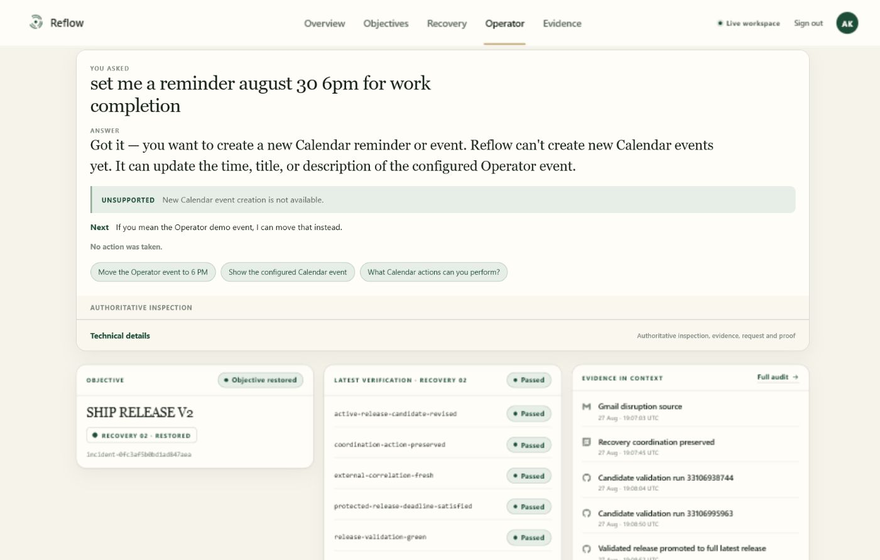
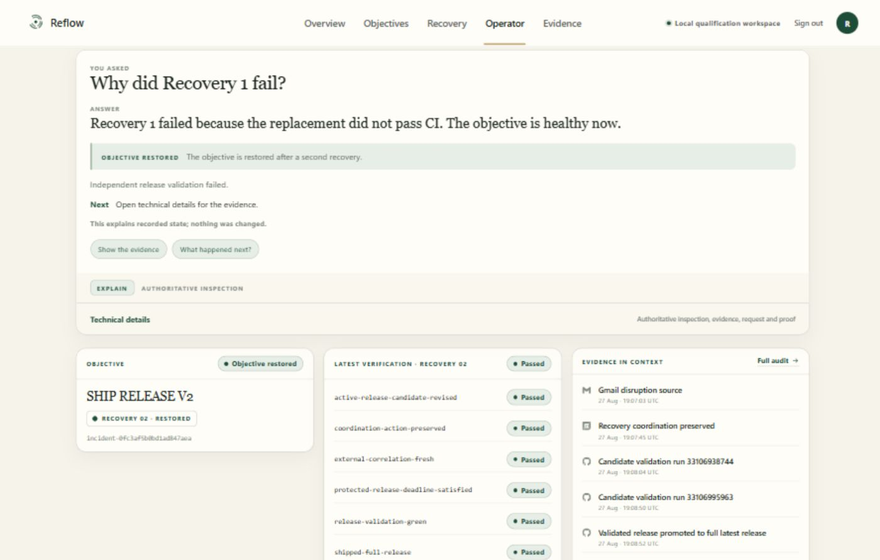
docs: truth-sync the README, and typeset the canonical walkthrough
Four claims had gone stale against main and one screenshot had become
misleading.

Calendar event creation is live qualified — one real create, an independent
read-back, observed matching expected, and a same-key replay that produced no
second insert. The capabilities matrix, the limitations and the claim table now
say so, and the limitation that replaces the old one is the honest one: creation
is recorded through the Operator action ledger, not through the autonomous
loop's own action claims and receipts.

The Operator tile in the product grid was a screenshot of Reflow refusing to
create a Calendar event. That refusal is exactly what stopped being true, so
keeping it because it looked good would have been the wrong trade. It is
replaced by the answer to "Why did Recovery 1 fail?", and the caption now says
plainly that three tiles are the live workspace and one is the qualification
workspace against the same incident.

Test counts were re-measured rather than pasted: 549 backend passing, 167
frontend across 20 files, coverage 95.35%, mypy clean on 56 files, ruff clean.
The stale frozen-baseline guard still diverges on exactly one design-token line
and is still reported rather than deselected.

Voice no longer claims "real barge-in" as proof. The interruption signal is
genuinely wired to the audio player and covered at unit level, but no recording
of an interruption during a real authenticated call is preserved, so it is
[…]

diff --git a/README.md b/README.md
@@ -13,8 +13,8 @@ Reflow is a closed loop, not an assistant. It watches the systems an objective d
 ![Cloud Run](https://img.shields.io/badge/Cloud_Run-1D4C39?style=flat-square&logo=googlecloud&logoColor=white)
 ![Firestore](https://img.shields.io/badge/Firestore-1D4C39?style=flat-square&logo=firebase&logoColor=white)
 ![Firebase](https://img.shields.io/badge/Firebase_Hosting_+_Auth-1D4C39?style=flat-square&logo=firebase&logoColor=white)
-![Backend tests](https://img.shields.io/badge/backend-544_passing-91A995?style=flat-square)
-![Frontend tests](https://img.shields.io/badge/frontend-161_passing-91A995?style=flat-square)
+![Backend tests](https://img.shields.io/badge/backend-549_passing-91A995?style=flat-square)
+![Frontend tests](https://img.shields.io/badge/frontend-167_passing-91A995?style=flat-square)
 ![Coverage](https://img.shields.io/badge/coverage-95.35%25-91A995?style=flat-square)
 
 **[Live product → reflow-objective-recovery.web.app](https://reflow-objective-recovery.web.app)**
@@ -25,7 +25,7 @@ Reflow is a closed loop, not an assistant. It watches the systems an objective d
 
 </div>
 
-| Deployment | Human steps in the canonical run | Email to restored objective | External proof |
+| Deployment | Human interventions after the trigger | Email to restored objective | External proof |
 |---|---:|---:|---:|
 | [Live on Firebase + Cloud Run](https://reflow-objective-recovery.web.app) | **zero** | **~111 seconds** | **independent read-back** |
 
@@ -136,16 +136,16 @@ Only then did all six invariants pass and the objective resolve.
 
 ## <img src="docs/assets/marks/product.svg" height="22" align="center" alt="" /> &nbsp;The product
 
-Four surfaces onto a loop that already ran. Each answers a different question, and all are captured from the live workspace.
+Four surfaces onto a loop that already ran. Each answers a different question.
 
 | | |
 |---|---|
 | <img src="docs/assets/surface-overview.png" alt="Overview: the current priority objective, its protected deadline, restoration margin, and an independently read-back Calendar commitment" width="100%" /> | <img src="docs/assets/surface-recovery.png" alt="Recovery Room: the receipt ladder for a recovery attempt" width="100%" /> |
 | **Overview** — what is at risk right now, how much margin is left against the protected deadline, and what Reflow did while you were away. | **Recovery Room** — the attempt, step by step, with the receipt ladder underneath each action. |
-| <img src="docs/assets/surface-operator.png" alt="Operator: Reflow answering that it cannot create new Calendar events, marked unsupported, with no action taken" width="100%" /> | <img src="docs/assets/surface-evidence.png" alt="Evidence: an external read-back record with evidence id, external reference, observed timestamp and confirmed status" width="100%" /> |
-| **Operator** — ask in plain language. This one is a **refusal**: Reflow says it cannot create Calendar events and that no action was taken. | **Evidence** — every action, receipt, verification and decision, with the external reference you can check yourself. |
+| <img src="docs/assets/surface-operator.png" alt="Operator: the plain-language answer to why Recovery 1 failed, with the objective marked restored and the technical provenance collapsed beneath it" width="100%" /> | <img src="docs/assets/surface-evidence.png" alt="Evidence: an external read-back record with evidence id, external reference, observed timestamp and confirmed status" width="100%" /> |
+| **Operator** — ask in plain language. *Why did Recovery 1 fail?* returns the human answer first, states that nothing was changed, and keeps the provenance one disclosure away. | **Evidence** — every action, receipt, verification and decision, with the external reference you can check yourself. |
 
-The Operator tile is deliberate. A system that only shows its successes has not shown you its authority model.
+Three of these are the live workspace; the Operator tile is from the qualification workspace against the same canonical incident.
 
 ---
 
@@ -265,97 +265,118 @@ A deeper component-level view is in [`docs/architecture.md`](docs/architecture.m
 
 ---
 
-## <img src="docs/assets/marks/pipeline.svg" height="22" align="center" alt="" /> &nbsp;How it works
+## <img src="docs/assets/marks/pipeline.svg" height="22" align="center" alt="" /> &nbsp;How the canonical recovery actually ran
 
-This is the canonical recovery, with the real values it actually produced and the file that owns each stage. Everything below happened without a person.
+Not an illustration — the real run, in order, with the values it produced. Every step below happened without a person.
 
 ```text
-                    "Backend lead is unavailable this week."
-                   a real email, arriving at a watched mailbox
-                                        │
-                                        ▼
-    ┌──────────────────────────────────────────────────────────────────────┐
-    │  1 · INGEST                                      gmail_ingestion.py  │
-    │  Gmail watch → Pub/Sub push → the private backend                    │
-    │  history cursor advances · the event is claimed transactionally,     │
-    │  so a redelivery of the same message can never run twice             │
-    └───────────────────────────────────┬──────────────────────────────────┘
-                                        ▼
-    ┌──────────────────────────────────────────────────────────────────────┐
-    │  2 · INTERPRET                              gmail_interpretation.py  │
-    │  agent 1 → REAL_DISRUPTION, type personnel_unavailability,           │
-    │  grounded in verbatim excerpts from the mail body                    │
-    │  agent 2 → candidate nodes: person-backend-lead,                     │
-    │  work-api-migration, release-v2 — from a known-node catalogue        │
-    └───────────────────────────────────┬──────────────────────────────────┘
-                                        ▼
-    ┌──────────────────────────────────────────────────────────────────────┐
-    │  3 · MAP THE BLAST RADIUS                           domain/graph.py  │
-    │  reverse traversal over the operational graph — deterministic,       │
-    │  and final; the model may propose nodes but never traverse           │
-    │  threatened objective: SHIP RELEASE V2, deadline Fri 17:00 UTC       │
-    └───────────────────────────────────┬──────────────────────────────────┘
-                                        ▼
-    ┌──────────────────────────────────────────────────────────────────────┐
-    │  4 · PLAN, THEN ATTACK THE PLANS                        planning.py  │
-    │  agent 3 → three materially different recoveries, one each for       │
-    │  deadline-first, risk-minimisation-first, resource-balance-first     │
-    │  agent 4 → one critique per plan: contradictions, overload,          │
-    │  single points of failure, missing evidence. It cannot approve.      │
-    └───────────────────────────────────┬──────────────────────────────────┘
-                                        ▼
-    ┌──────────────────────────────────────────────────────────────────────┐
-    │  5 · AUTHORISE, THEN SELECT         domain/policy.py · selection.py  │
-    │  hard policy: workload ceiling, skills, protected commitments,       │
-    │  blocking unknowns · invalid plans are rejected with reasons         │
-    │  one stable pick — the same evidence always selects the same plan    │
-    └───────────────────────────────────┬──────────────────────────────────┘
-                                        │
-                    ┌───────────────────┴─────────────────┐
-                    ▼                                     ▼
-   ┌────────────────────────────────┐    ┌────────────────────────────────┐
-   │  CALENDAR ADAPTER              │    │  GITHUB GATEWAY                │
-   │  reschedule the release        │    │  create the Candidate A        │
-   │  coordination block            │    │  validation release            │
-   │  idempotency key first         │    │  then wait for real CI         │
-   └────────────────────────────────┘    └────────────────────────────────┘
-                    │                                     │
-                    └───────────────────┬─────────────────┘
-                                        ▼
-    ┌──────────────────────────────────────────────────────────────────────┐
-    │  6 · READ EACH EFFECT BACK                        the same adapters  │
-    │  a second, separate request to each provider                         │
-    │  expected compared with observed · a write that returns 200 is       │
-    │  a receipt, never proof. Disagreement ⇒ VERIFICATION_FAILED          │
-    └───────────────────────────────────┬──────────────────────────────────┘
-                                        ▼
-    ┌──────────────────────────────────────────────────────────────────────┐
-    │  7 · VERIFY THE OBJECTIVE                    domain/verification.py  │
-    │  six invariants over recorded state — the only route to resolved     │
-    │  Recovery 01: Calendar VERIFIED, but release-validation-green        │
-    │  was false because Candidate A failed CI                             │
-    └───────────────────────────────────┬──────────────────────────────────┘
-                                        │
-                    ┌───────────────────┴─────────────────┐
-              invariants fail                            hold
-                    ▼                                     ▼
-   ┌────────────────────────────────┐    ┌────────────────────────────────┐
-   │  8 · REOPEN AND REPLAN         │    │  RESOLVED                      │
-   │  p1d.py · agent 5              │    │  objective_restored            │
-   │  the failed effect is          │    │  revision 16, six of six       │
-   │  fingerprinted so the          │    │  invariants, 21h 51m           │
-   │  next plan cannot              │    │  before the protected          │
-   │  repeat it                     │    │  deadline                      │
-   └────────────────────────────────┘    └────────────────────────────────┘
-                    │
-                    └─ Candidate B ─▶ back to stage 4, and it holds
+                   "Backend lead is unavailable this week."
+                  a real email, arriving at a watched mailbox
+                                       │
+                                       ▼
+     ┌──────────────────────────────────────────────────────────────────┐
+     │  1 · INGEST                                                      │
+     │  Gmail watch → Pub/Sub push → the private backend                │
+     │  already-claimed redeliveries exit without repeating the stage   │
+     └──────────────────────────────────────────────────────────────────┘
+                                       │
+                                       │  Pub/Sub handoff
+                                       ▼
+     ┌──────────────────────────────────────────────────────────────────┐
+     │  2 · INTERPRET                                                   │
+     │  agent 1 → REAL_DISRUPTION · personnel_unavailability            │
+     │  agent 2 → person-backend-lead, work-api-migration, release-v2   │
+     └──────────────────────────────────────────────────────────────────┘
+                                       │
+                                       ▼
+     ┌──────────────────────────────────────────────────────────────────┐
+     │  3 · MAP THE BLAST RADIUS                                        │
+     │  deterministic reverse traversal over the operational graph      │
+     │  threatened objective: SHIP RELEASE V2, Friday 17:00 UTC         │
+     └──────────────────────────────────────────────────────────────────┘
+                                       │
+                                       ▼
+     ┌──────────────────────────────────────────────────────────────────┐
+     │  4 · PLAN, THEN ATTACK THE PLANS                                 │
+     │  agent 3 → three materially different recovery candidates        │
+     │  agent 4 → one critique each; it cannot approve or reject        │
+     └──────────────────────────────────────────────────────────────────┘
+                                       │
+                                       ▼
+     ┌──────────────────────────────────────────────────────────────────┐
+     │  5 · AUTHORISE AND SELECT                                        │
+     │  hard policy rejects invalid candidates, with reasons            │
+     │  stable selection — the same evidence picks the same plan        │
+     └──────────────────────────────────────────────────────────────────┘
+
+                      ──────────  RECOVERY 01  ──────────
+
+     ┌──────────────────────────────────────────────────────────────────┐
+     │  6 · ACT ON GOOGLE CALENDAR                                      │
+     │  reschedule the release coordination block                       │
+     │  the idempotency key is claimed before the write                 │
+     └──────────────────────────────────────────────────────────────────┘
+                                       │
+                                       ▼
+     ┌──────────────────────────────────────────────────────────────────┐
+     │  7 · READ THE CALENDAR BACK                                      │
+     │  a separate request · observed state matched expected            │
+     │  receipt VERIFIED — acknowledgement alone is not proof           │
+     └──────────────────────────────────────────────────────────────────┘
+                                       │
+                                       │  Pub/Sub handoff
+                                       ▼
+     ┌──────────────────────────────────────────────────────────────────┐
+     │  8 · VALIDATE CANDIDATE A ON GITHUB                              │
+     │  the release is created, then the real CI result is awaited      │
+     │  the required check failed                                       │
+     └──────────────────────────────────────────────────────────────────┘
+                                       │
+                                       ▼
+     ┌──────────────────────────────────────────────────────────────────┐
+     │  9 · VERIFY THE OBJECTIVE                                        │
+     │  six invariants evaluated over recorded state                    │
+     │  release-validation-green false — the objective did not recover  │
+     └──────────────────────────────────────────────────────────────────┘
+                                       │
+                                       │  invariants fail
+                                       ▼
+
+                      ──────────  RECOVERY 02  ──────────
+
+     ┌──────────────────────────────────────────────────────────────────┐
+     │  10 · REOPEN AND REPLAN                                          │
+     │  the incident reopens itself · agent 5 says what must change     │
+     │  the failed effect is fingerprinted and excluded from replanning │
+     └──────────────────────────────────────────────────────────────────┘
+                                       │
+                                       ▼
+     ┌──────────────────────────────────────────────────────────────────┐
+     │  11 · VALIDATE CANDIDATE B                                       │
+     │  a different candidate, CI green, the release promoted           │
+     │  an independent GitHub read confirms the latest release          │
+     └──────────────────────────────────────────────────────────────────┘
+                                       │
+                                       ▼
+     ┌──────────────────────────────────────────────────────────────────┐
+     │  12 · VERIFY AGAIN                                               │
+     │  six of six invariants hold                                      │
+     └──────────────────────────────────────────────────────────────────┘
+                                       │
+                                       ▼
+     ╔══════════════════════════════════════════════════════════════════╗
+     ║  OBJECTIVE RESTORED                                              ║
+     ║  objective_restored · revision 16 · 21h 51m before the deadline  ║
+     ╚══════════════════════════════════════════════════════════════════╝
 ```
 
-**Four durable stages, not one long request.** Stages 1, 2–5, the GitHub validation, and the verify-or-reopen step are separate Pub/Sub-delivered units of work. Each finishes, writes durable state, and publishes a handoff the next one consumes on its own. A worker can die anywhere in that chain and the work resumes rather than restarting.
+**Inspect the implementation:** [`gmail_ingestion.py`](objective_recovery_agent/gmail_ingestion.py) · [`gmail_interpretation.py`](objective_recovery_agent/gmail_interpretation.py) · [`domain/graph.py`](src/objective_recovery/domain/graph.py) · [`planning.py`](objective_recovery_agent/planning.py) · [`domain/policy.py`](src/objective_recovery/domain/policy.py) · [`application/selection.py`](src/objective_recovery/application/selection.py) · [`calendar_operator_adapter.py`](objective_recovery_agent/calendar_operator_adapter.py) · [`github_gateway.py`](objective_recovery_agent/github_gateway.py) · [`domain/verification.py`](src/objective_recovery/domain/verification.py) · [`p1d.py`](objective_recovery_agent/p1d.py)
 
-**Replay is safe by construction.** A redelivered message re-enters its stage and stops, because event claims are transactional. A retried action returns the existing durable action, because the idempotency key is claimed before the write — verified live during the Slack qualification, where a repeated request returned the same action and the same timestamps without reaching the provider.
+**Four durable stages, not one long request.** The Pub/Sub handoffs marked above are real boundaries: each stage finishes its work, writes durable state, and publishes for the next one to consume. A worker can die anywhere in that chain and the work resumes rather than restarting.
 
-**The interesting stage is 8.** `p1d.py` describes itself as *autonomous reopen, replan, second recovery, shipping, and closure*. When invariants fail, the failed effect is recorded as a fingerprint and hard-rejected from the next plan, so the engine cannot replan into the dead end it just came out of. Candidate B was produced that way.
+**Replay is safe by construction.** An already-claimed redelivery exits without repeating its stage, because event claims are transactional. A retried action returns the existing durable action, because the idempotency key is claimed before the write — verified live during the Slack qualification, where a repeated request returned the same action and the same timestamps without reaching the provider.
+
+**Stage 10 is the one to look at.** `p1d.py` describes itself as *autonomous reopen, replan, second recovery, shipping, and closure*. The failed effect is recorded as a fingerprint and hard-rejected from the next plan, so the engine cannot replan into the dead end it just came out of. Candidate B was produced that way.
 
 ---
 
@@ -365,7 +386,7 @@ The engine does not need any of this to work. Operator is how a person looks int
 
 **Type.** The Operator composer takes a question or a request. Agent 6 classifies it into a typed intent; deterministic policy decides whether anything may execute.
 
-**Say.** A live bidirectional voice call on Gemini Live, with real barge-in. Credentials are minted short-lived, model-locked and audience-bound in [`voice_sessions.py`](objective_recovery_agent/voice_sessions.py); the browser never receives a durable key. Dictation is separate and composes into the same field — it never submits on its own.
+**Say.** A live bidirectional voice conversation on Gemini Live. The Live API's interruption signal is wired to the audio player, so speaking over Reflow stops its playback and commits the turn. Credentials are minted short-lived, model-locked and audience-bound in [`voice_sessions.py`](objective_recovery_agent/voice_sessions.py); the browser never receives a durable key. Dictation is separate and composes into the same field — it never submits on its own.
 
 **Show.** Upload, drag, or paste a screenshot. `POST /api/v1/operator/image` validates signature, declared type, decoder agreement, frame count and dimensions before Agent 8 sees anything. The answer separates what was **observed** from what was **inferred** from what is **not visible**.
 
@@ -401,7 +422,7 @@ Derived from the adapters and policy in source, and from the recorded live proof
 | System | Capability | Status |
 |---|---|---|
 | **Google Calendar** | Reschedule, update title, update description on the configured event | **Live qualified** — real write, independent `GET`, verified |
-| **Google Calendar** | Create an event on the configured operator calendar | **Implemented and tested** — no live qualification record yet |
+| **Google Calendar** | Create an event on the configured operator calendar | **Live qualified** — one real create, independent read-back, `expected == observed`, replay produced no second insert |
 | **Jira** | Transition an issue | **Live qualified** — real transition, separate `GET` confirmed |
 | **Jira** | Set priority, assign, set due date, add comment | **Implemented and tested** — comment creation failed its live attempt and is not claimed |
 | **Slack** | Post a message to the configured channel | **Live qualified** — one authorized message, read back, replay-safe |
@@ -491,7 +512,7 @@ Reflow/
 │   ├── vision/                      Show Reflow: plate, client, visual answer
 │   ├── voice/                       live call, dictation, global dock
 │   └── recovery/                    Recovery Room, spine, receipt ladder
-├── tests/                           544 backend tests
+├── tests/                           549 backend tests
 ├── deployment/terraform/            single-project infrastructure
 └── docs/                            proofs, contracts and architecture
 ```
@@ -526,11 +547,11 @@ npm run build
 
 | Gate | Result |
 |---|---|
-| Backend tests | **544 passing**, 1 skipped, 1 known-stale guard described below |
+| Backend tests | **549 passing**, 1 skipped, 1 known-stale guard described below |
 | Coverage | **95.35%**, gate 95% |
 | `mypy` strict | **Clean**, 56 source files |
 | `ruff check` | **Clean** on `src`, `tests`, `objective_recovery_agent` |
-| Frontend tests | **161 passing** across 19 files |
+| Frontend tests | **167 passing** across 20 files |
 | Frontend typecheck, lint, format, build | **Clean** |
 
 **The one failure, stated plainly.**
@@ -549,9 +570,9 @@ This guard pins thirteen paths against commit `6b9b6f1`. Twelve are byte-identic
 - **Visual evidence is not live system state**, and text inside an image cannot authorize anything.
 - **Capability is bounded by configured adapters.** Reflow acts on specific configured resources, not on arbitrary issues, channels or calendars.
 - **Gmail is read-only.** The scope is enforced by exact set comparison, so a broader grant fails closed.
-- **Calendar event creation is implemented and tested but has no live qualification record** on this branch, and is listed that way above.
 - **The Jira comment operation failed its live attempt** and is not claimed as qualified.
-- **Voice is deployed and unit-tested**, but its live-call evidence boundary is narrower than the recorded Calendar, Slack, Jira, GitHub and Gmail proofs.
+- **Voice interruption is implemented and wired, not separately proven.** The handler is in source and covered at unit level; there is no preserved recording of an interruption during a real authenticated call, so it is described as implemented rather than qualified.
+- **Calendar event creation is recorded through the Operator action ledger**, not through the autonomous recovery loop's own action claims and receipts. It is a controlled Operator capability.
 - **A verified action does not imply a recovered objective.** That is the point, and it means Reflow will sometimes tell you it changed something and still failed.
 - Provider and model services carry their own availability and quota behavior.
 
@@ -566,6 +587,7 @@ This guard pins thirteen paths against commit `6b9b6f1`. Twelve are byte-identic
 | Objective verification is the only route to resolved | [`domain/verification.py`](src/objective_recovery/domain/verification.py), [`domain/state_machine.py`](src/objective_recovery/domain/state_machine.py) |
 | Action lifecycle, authorization and read-back | [`operator_actions.py`](objective_recovery_agent/operator_actions.py) |
 | Calendar adapter and its independent GET | [`calendar_operator_adapter.py`](objective_recovery_agent/calendar_operator_adapter.py) |
+| Calendar event creation, bounded to one calendar | [`calendar_operator_contract.py`](objective_recovery_agent/calendar_operator_contract.py), [`test_calendar_create_operator.py`](tests/test_calendar_create_operator.py) |
 | Slack bounded capability and live proof | [`slack_operator_adapter.py`](objective_recovery_agent/slack_operator_adapter.py), [`p2h-slack-operator-capability.md`](docs/p2h-slack-operator-capability.md) |
 | Jira and Calendar live action proof | [`p2g-controlled-operator-act-final.md`](docs/p2g-controlled-operator-act-final.md) |
 | Canonical recovery, end to end | [`p1e-proof.md`](docs/p1e-proof.md) |

diff --git a/docs/SUBMISSION.md b/docs/SUBMISSION.md
@@ -12,7 +12,7 @@ Reflow is an autonomous objective recovery engine — a closed loop, not an assi
 
 **One line:** Gemini reasons. Code enforces. Adapters act. Verifier proves.
 
-**Say this, not that.** Reflow is an engine that contains AI, not an AI that answers questions. The canonical recovery involved zero human steps. Operator (type, talk, show) is a window onto the loop and a bounded control surface — never describe it as the product. The specification lists *generic chatbot* as an explicit non-goal.
+**Say this, not that.** Reflow is an engine that contains AI, not an AI that answers questions. The canonical recovery required zero human interventions *after the external trigger* — say it that way, because Operator workflows are deliberately human-initiated. Operator (type, talk, show) is a window onto the loop and a bounded control surface — never describe it as the product. The specification lists *generic chatbot* as an explicit non-goal.
 
 ---
 
@@ -86,7 +86,7 @@ The Calendar action was verified. The objective was not restored — Candidate A
 
 **Type.** The Operator console takes a question or a request. Agent 6 classifies it into a typed intent; policy decides whether anything may execute.
 
-**Talk.** A live bidirectional Gemini Live call with real barge-in. Credentials are short-lived, model-locked and audience-bound; the browser never receives a durable key. Dictation composes into the same field and never submits on its own. Gemini Live is a model capability, not a ninth agent.
+**Talk.** A live bidirectional Gemini Live conversation. The Live API's interruption signal is wired to the audio player, so speaking over Reflow stops playback and commits the turn — implemented and unit-covered, with no preserved recording of an interruption during a real authenticated call. Credentials are short-lived, model-locked and audience-bound; the browser never receives a durable key. Dictation composes into the same field and never submits on its own. Gemini Live is a model capability, not a ninth agent.
 
 **Show.** Upload, drag or paste a screenshot. The endpoint validates signature, declared type, decoder agreement, frame count and dimensions before Agent 8 sees anything. The answer separates observed from inferred from not visible.
 
@@ -125,7 +125,7 @@ Two boundaries hold: visual evidence is not authoritative live system state, and
 - Visual evidence is not live system state, and image text cannot authorize anything.
 - Capability is bounded to configured resources, not arbitrary issues, channels or calendars.
 - Gmail is read-only, enforced by exact scope-set comparison.
-- Calendar event creation is implemented and tested, with no live qualification record yet.
+- Calendar event creation is live qualified as a controlled Operator capability: one real create, independent read-back, expected equal to observed, and a same-key replay that produced no second insert. It is recorded through the Operator action ledger, not the autonomous loop's own action claims and receipts.
 - The Jira comment operation failed its live attempt and is not claimed as qualified.
 - Voice is deployed and unit-tested; its live-call evidence boundary is narrower than the Calendar, Slack, Jira, GitHub and Gmail proofs.
 - A verified action does not imply a recovered objective.
@@ -139,11 +139,11 @@ Two boundaries hold: visual evidence is not authoritative live system state, and
 
 | Gate | Result |
 |---|---|
-| Backend tests | 544 passing, 1 skipped, 1 known-stale frozen-baseline guard |
+| Backend tests | 549 passing, 1 skipped, 1 known-stale frozen-baseline guard |
 | Coverage | 95.35%, gate 95% |
 | `mypy` strict | Clean, 56 source files |
 | `ruff check` | Clean on `src`, `tests`, `objective_recovery_agent` |
-| Frontend tests | 161 passing across 19 files |
+| Frontend tests | 167 passing across 20 files |
 | Frontend typecheck, lint, format, build | Clean |
 
 The stale guard pins thirteen paths against commit `6b9b6f1`. Twelve are byte-identical; the only divergence is a two-line design-token substitution in a frontend presentation component. State it as a stale guard, never as "all tests green".
